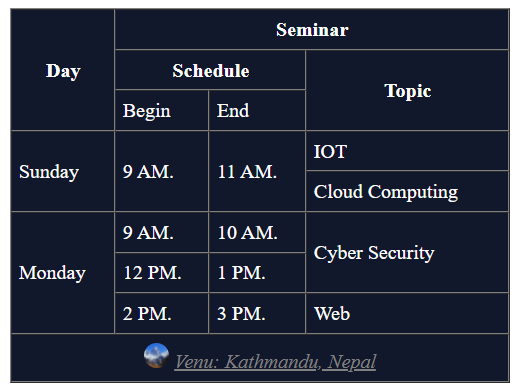
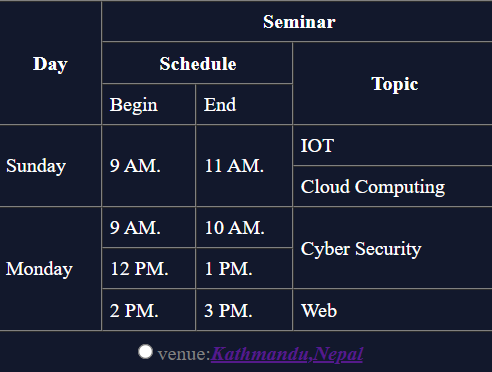
default

Changed region(s): [[0.0, 0.0, 1.0, 1.0], [0.7317, 0.207, 0.8537, 0.2661], [0.061, 0.1478, 0.1524, 0.207]]

diff --git a/labasgmt_3/index1.html b/labasgmt_3/index1.html
@@ -43,8 +43,7 @@
                 <td>Web</td>
             </tr>
             <tr>
-                <td colspan="4" align="center" style="color: grey;">
-                    <a href="https://en.wikipedia.org/wiki/Kathmandu"><img height="20px" width="20px" src="https://www.bing.com/th?id=OIP.PNY1JaTJcNAWGGxAn9loxwHaE8&w=306&h=204&c=8&rs=1&qlt=90&o=6&dpr=1.25&pid=3.1&rm=2" style="border-radius: 50%;"></a>&nbsp;<i><u>Venu:&nbsp;Kathmandu, Nepal</u></i>
+                <td colspan="4" align="center" style="color: grey;"><input type="radio" name="venue">venue:<a href="https://www.google.com/maps/place/Kathmandu"><i><b>Kathmandu,Nepal</i></b></a></label>
                 </td>
 
             </tr>
